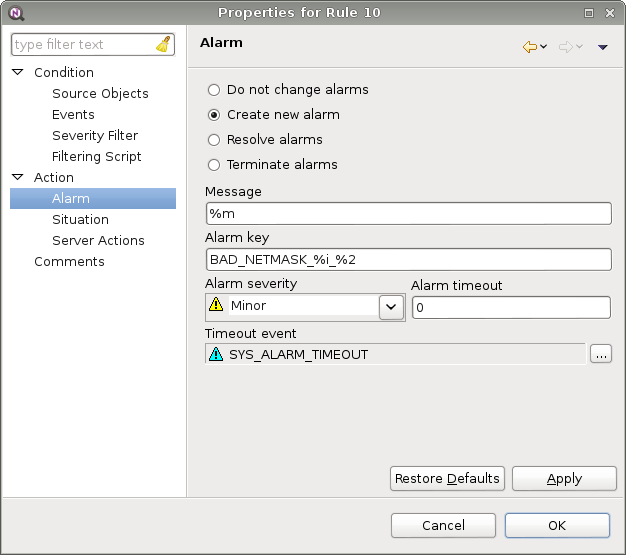
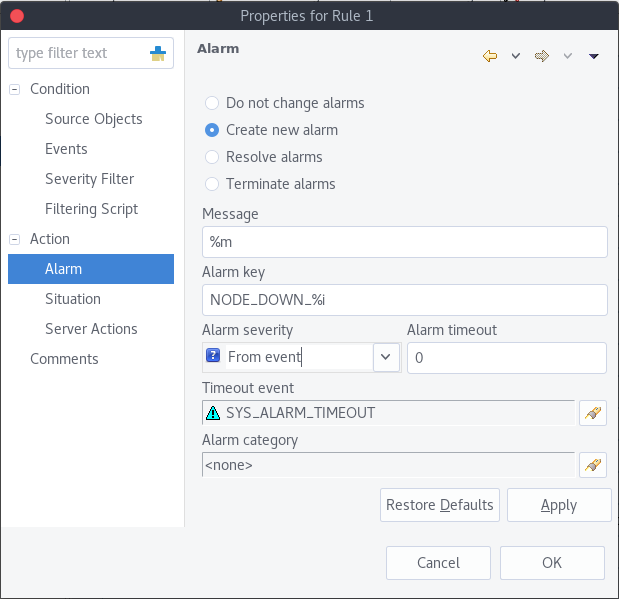
Added documentation for Alarm Categories: Added missing system access right descriptions

diff --git a/admin/user-management.rst b/admin/user-management.rst
@@ -52,6 +52,10 @@ instead of using individual users. That way you will get a much shorter access
 control list which is easier to handle. Access rights from multiple groups are
 summarized to calculate effective user access rights.
 
+Other groups can also be added as group members, in this case, the user access rights
+will be calculated by summarizing the access rights from all the groups in the path
+to the user.
+
 
 Everyone Group
 ~~~~~~~~~~~~~~
@@ -98,18 +102,22 @@ The following system access rights can be granted:
    * - Edit server configuration variables
      - Allow user to edit server configuration variables. 
    * - Execute commands via XMPP
-     - Allows user to execute commands via XMPP
+     - Allows user to execute commands via XMPP.
    * - Login as mobile device
-     - Allows user to login with help of mobile application
+     - Allows user to login with help of mobile application.
    * - Manage agent configurations
-     - Allow user to create, edit, and delete agent configurations stored on
+     - Allow user to create, edit and delete agent configurations stored on
        server. :ref:`stored-agent-configurations-label`
+   * - Manage all scheduled tasks
+     - Allow user to create, edit and delete all :ref:`schedule`.
    * - Manage DCI summary table
-     - Allows user to manage DCI summary table :ref:`dci-summary-table-label`
+     - Allows user to manage DCI summary table. :ref:`dci-summary-table-label`
    * - Manage image library
-     - Allows user to manage image library :ref:`image-library`
+     - Allows user to manage image library. :ref:`image-library`
    * - Manage mapping tables
-     - Allows user to manage mapping tables
+     - Allows user to manage mapping tables.
+   * - Manage own scheduled tasks
+     - Allow user to create new and modify :ref:`schedule` created by the user.
    * - Manage packages
      - Allow user to install, remove, and deploy server agent packages. :ref:`agent-remote-update`
    * - Manage server files
@@ -120,17 +128,29 @@ The following system access rights can be granted:
      - Allow user to manage user accounts. Please note that user having this
        access right granted can modify own account to get any other system
        right granted.
+   * - Manage user scheduled tasks
+     - Allow user to create, edit and delete user`s :ref:`schedule`.
    * - Read server files 
      - Allow user to read files stored on server and upload to agents (user
        still needs appropriate object rights for upload). :ref:`server-files-label` 
    * - Register agents
      - Allow user to register NetXMS agents.
+   * - Reporting server access
+     - Allow user to access the Reporting server configuration. :ref:`reporting`
+   * - Schedule file upload
+     - Allow user to schedule server file upload to an agent. :ref:`schedule`
+   * - Schedule object maintenance
+     - Allow user to schedule maintenance for an object. :ref:`schedule`
+   * - Schedule script execution
+     - Allow user to schedule script execution. :ref:`schedule`
    * - Send SMS
      - Allow user to send SMS via NetXMS server. This access right has no
        effect unless server configuration variable ``AllowDirectSMS`` set to
        ``1``.
    * - Unlink helpdesk tickets
-     - Allow user to unlink alarm from external heldesk system :ref:`helpdesk-integration`
+     - Allow user to unlink alarm from external heldesk system :ref:`helpdesk-integration`.
+   * - View all alarms
+     - Allow user to view all alarms generated by Event Processing Policy rules.
    * - View audit log
      - Allow user to view audit log.
    * - View event log
@@ -139,6 +159,10 @@ The following system access rights can be granted:
      - Allow user to view configured event templates.
    * - View SNMP trap log
      - Allow user to view SNMP trap log.
+
+By granting the :guilabel:`View all alarms` access right, the user (or members of the group)
+will have access to view all generated alarms. Should it be required to configure alarm viewing access
+for specific users or groups, please refer to :ref:`alarm-category-config`.
 
 
 User Authentication

diff --git a/admin/event-processing.rst b/admin/event-processing.rst
@@ -260,6 +260,50 @@ desired number of seconds in :guilabel:`Seconds` field, and select event to be
 sent. Entering value of ``0`` for seconds will disable additional event
 sending.
 
+Alarms generated by rules can by categorised to limit what alarms can be seen by what users.
+This can be done by applying a category in the :guilabel:`Alarm Category` field, which can be
+created and configured in the :ref:`alarm-category-config`.
+
+.._alarm-category-config:
+
+Alarm Caregory Configurator
+---------------------------
+
+Alarm categories can be created and configured in the :guilabel:`Alarm Category Configurator` which can
+be found in :menuselection:`Configuration --> Alarm Category Configurator` menu:
+
+.. figure:: _images/Alarm_category_config.png
+   :scale: 65%
+
+   Alarm Category Configurator
+
+Alarm categories provide the possibility to configure access rights for viewing generated alarms on a per user
+or per group basis. When creating an alarm category, it is possible to set the :guilabel:`Category name`, 
+:guilabel:`Description`.
+
+.. figure:: _images/Alarm_category_properties.png
+
+	Alarm Category properties
+
+Alarm category access rights can be configured by adding users or groups to the access list of the category in
+the :guilabel:`Access Control` property page.
+
+.. figure:: _images/Alarm_category_access.png
+
+	Alarm Category Access Control
+
+By default, all alarms can be viewed by all users due to the :guilabel:`View all alarms` system right
+being set as default to the :guilabel:`Everyone` user group. In order to limit the viewing of alarms, this system
+right should be removed and the access rights configured in the categories themselves. When the categories have
+been configured, they can be applied to the necessary :guilabel:`Event Processing Policy` rules.
+
+If an alarm category has been applied to an :guilabel:`Event Processing Policy` rule, it will appear in the
+:guilabel:`Event Processing Policy Editor` when a rule is expanded under the :guilabel:`Action` section.
+
+.. figure:: _images/EPP_rule_expanded.png
+
+	Event Processing Policy expanded
+
 
 Automatic Alarm Termination/Resolve
 -----------------------------------

diff --git a/admin/schedule.rst b/admin/schedule.rst
@@ -1,3 +1,6 @@
+.. _schedule:
+
+
 ===============
 Scheduled tasks
 ===============
